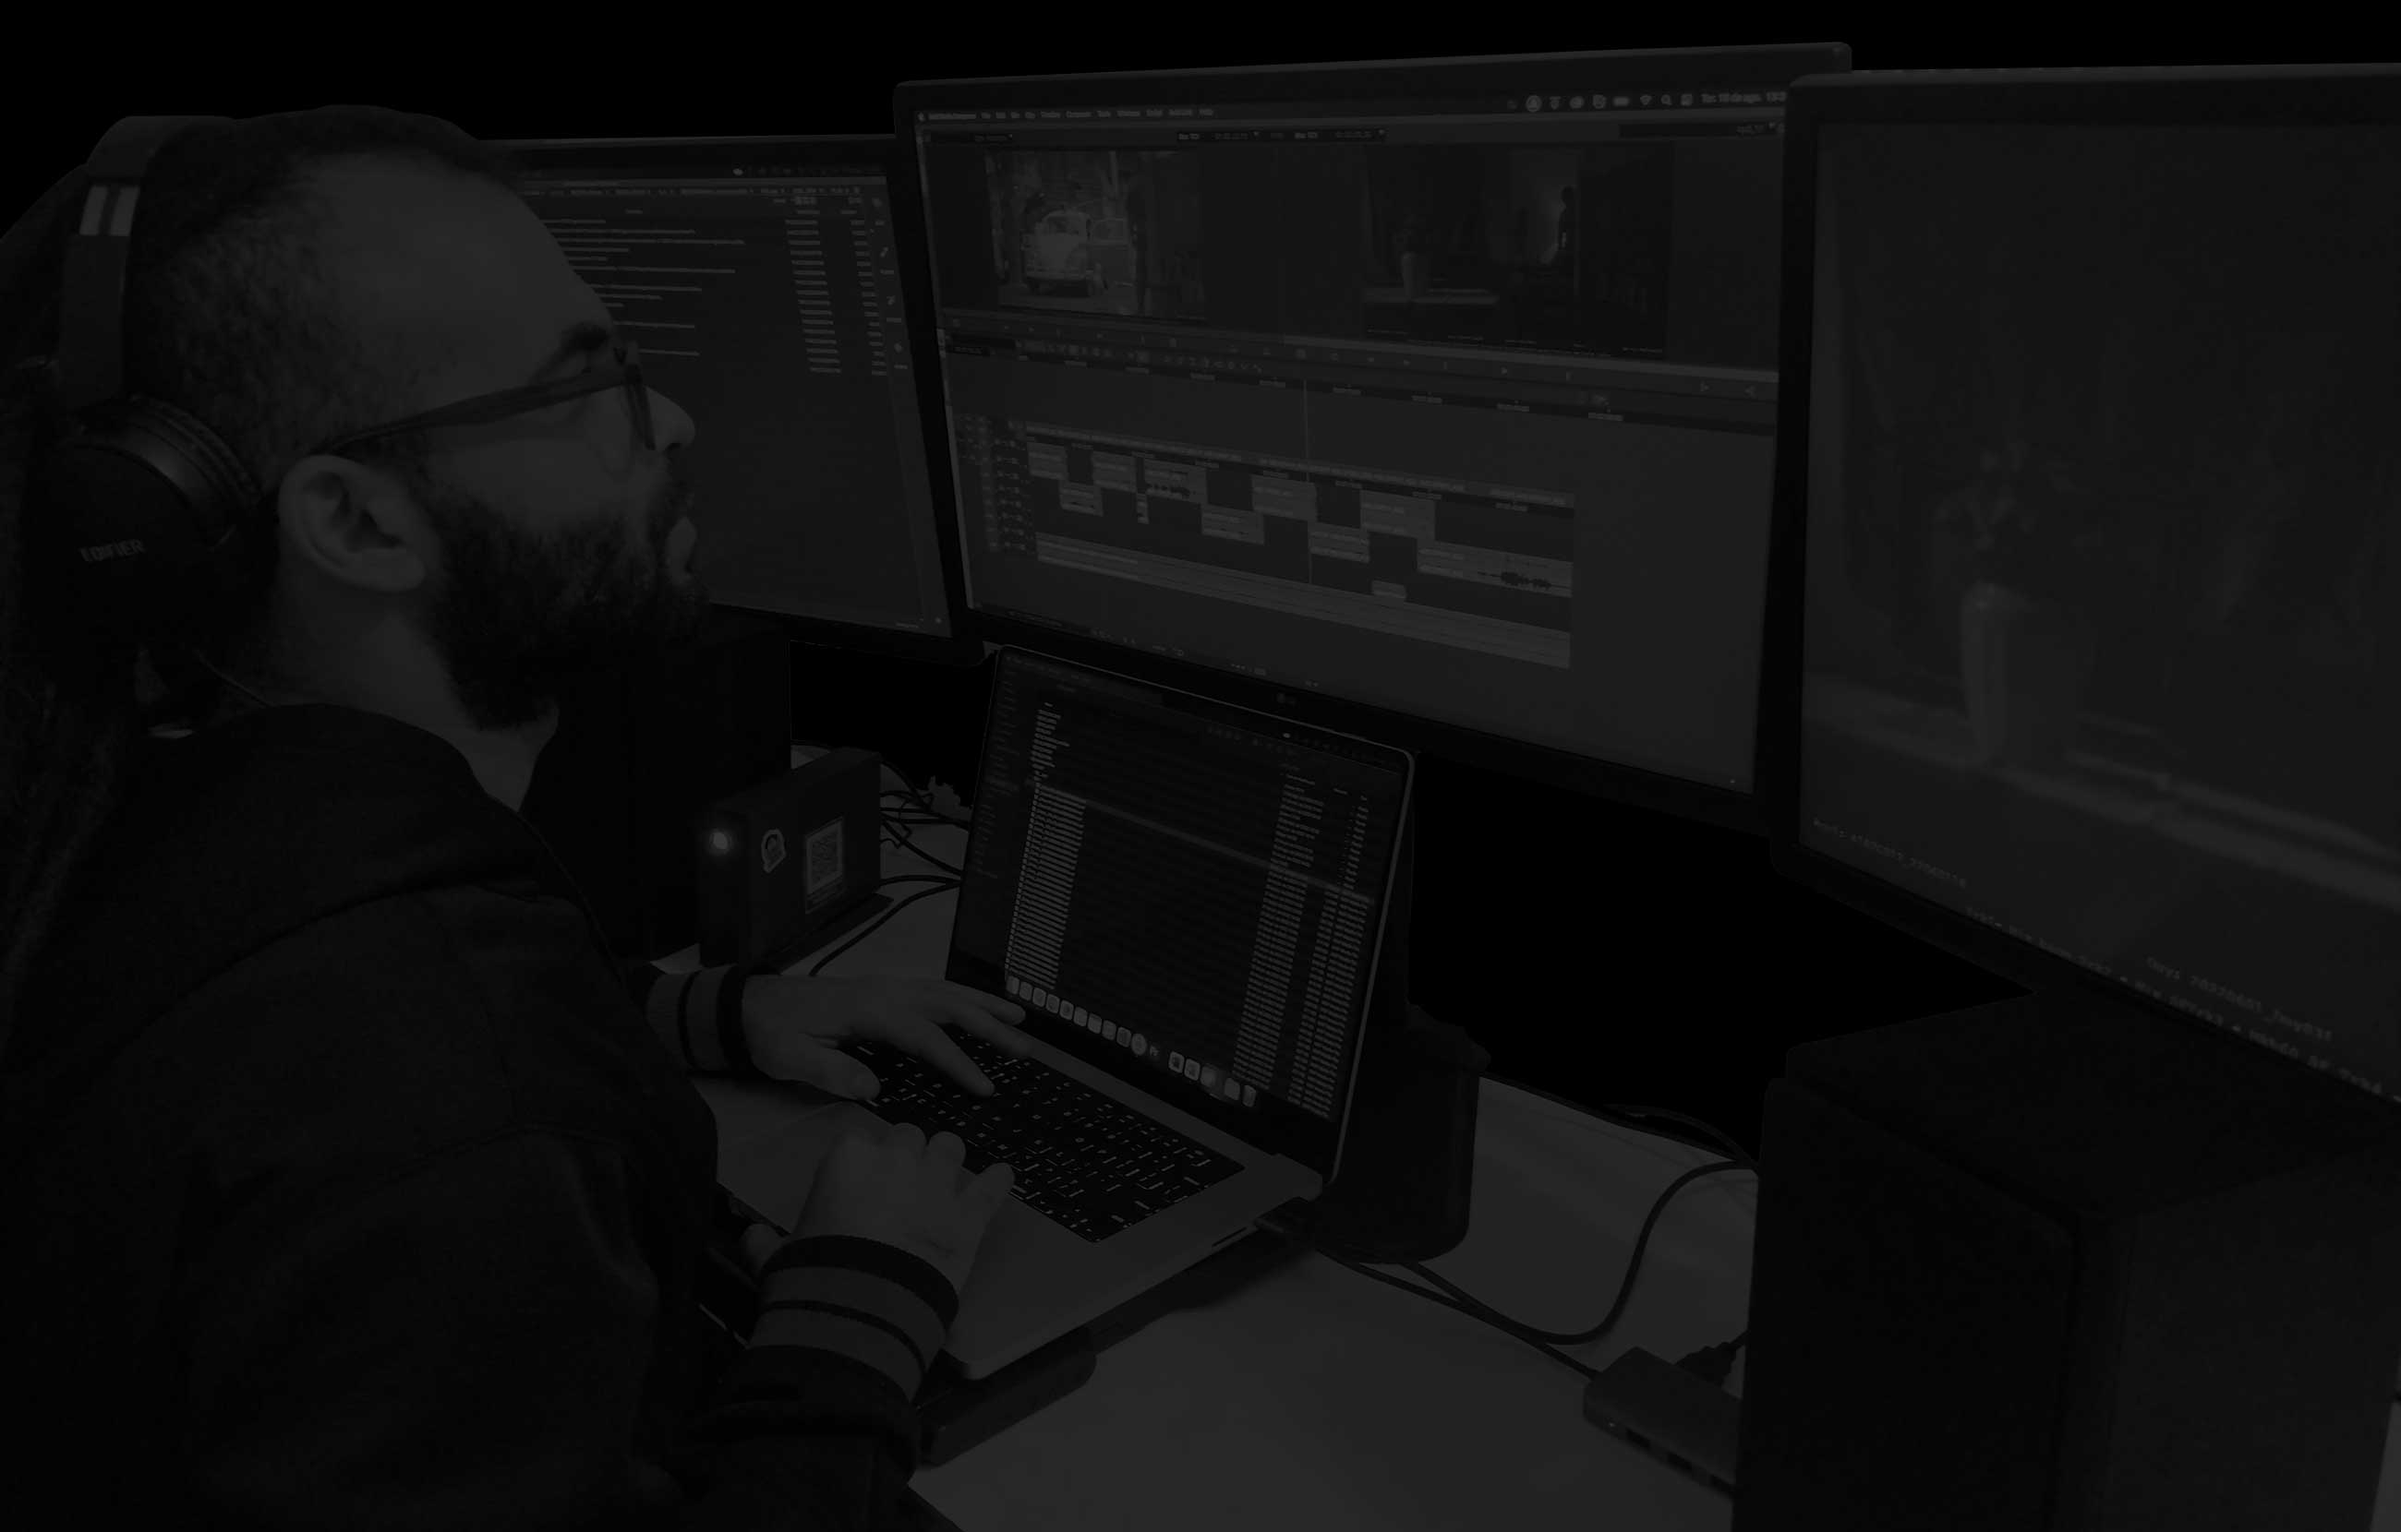
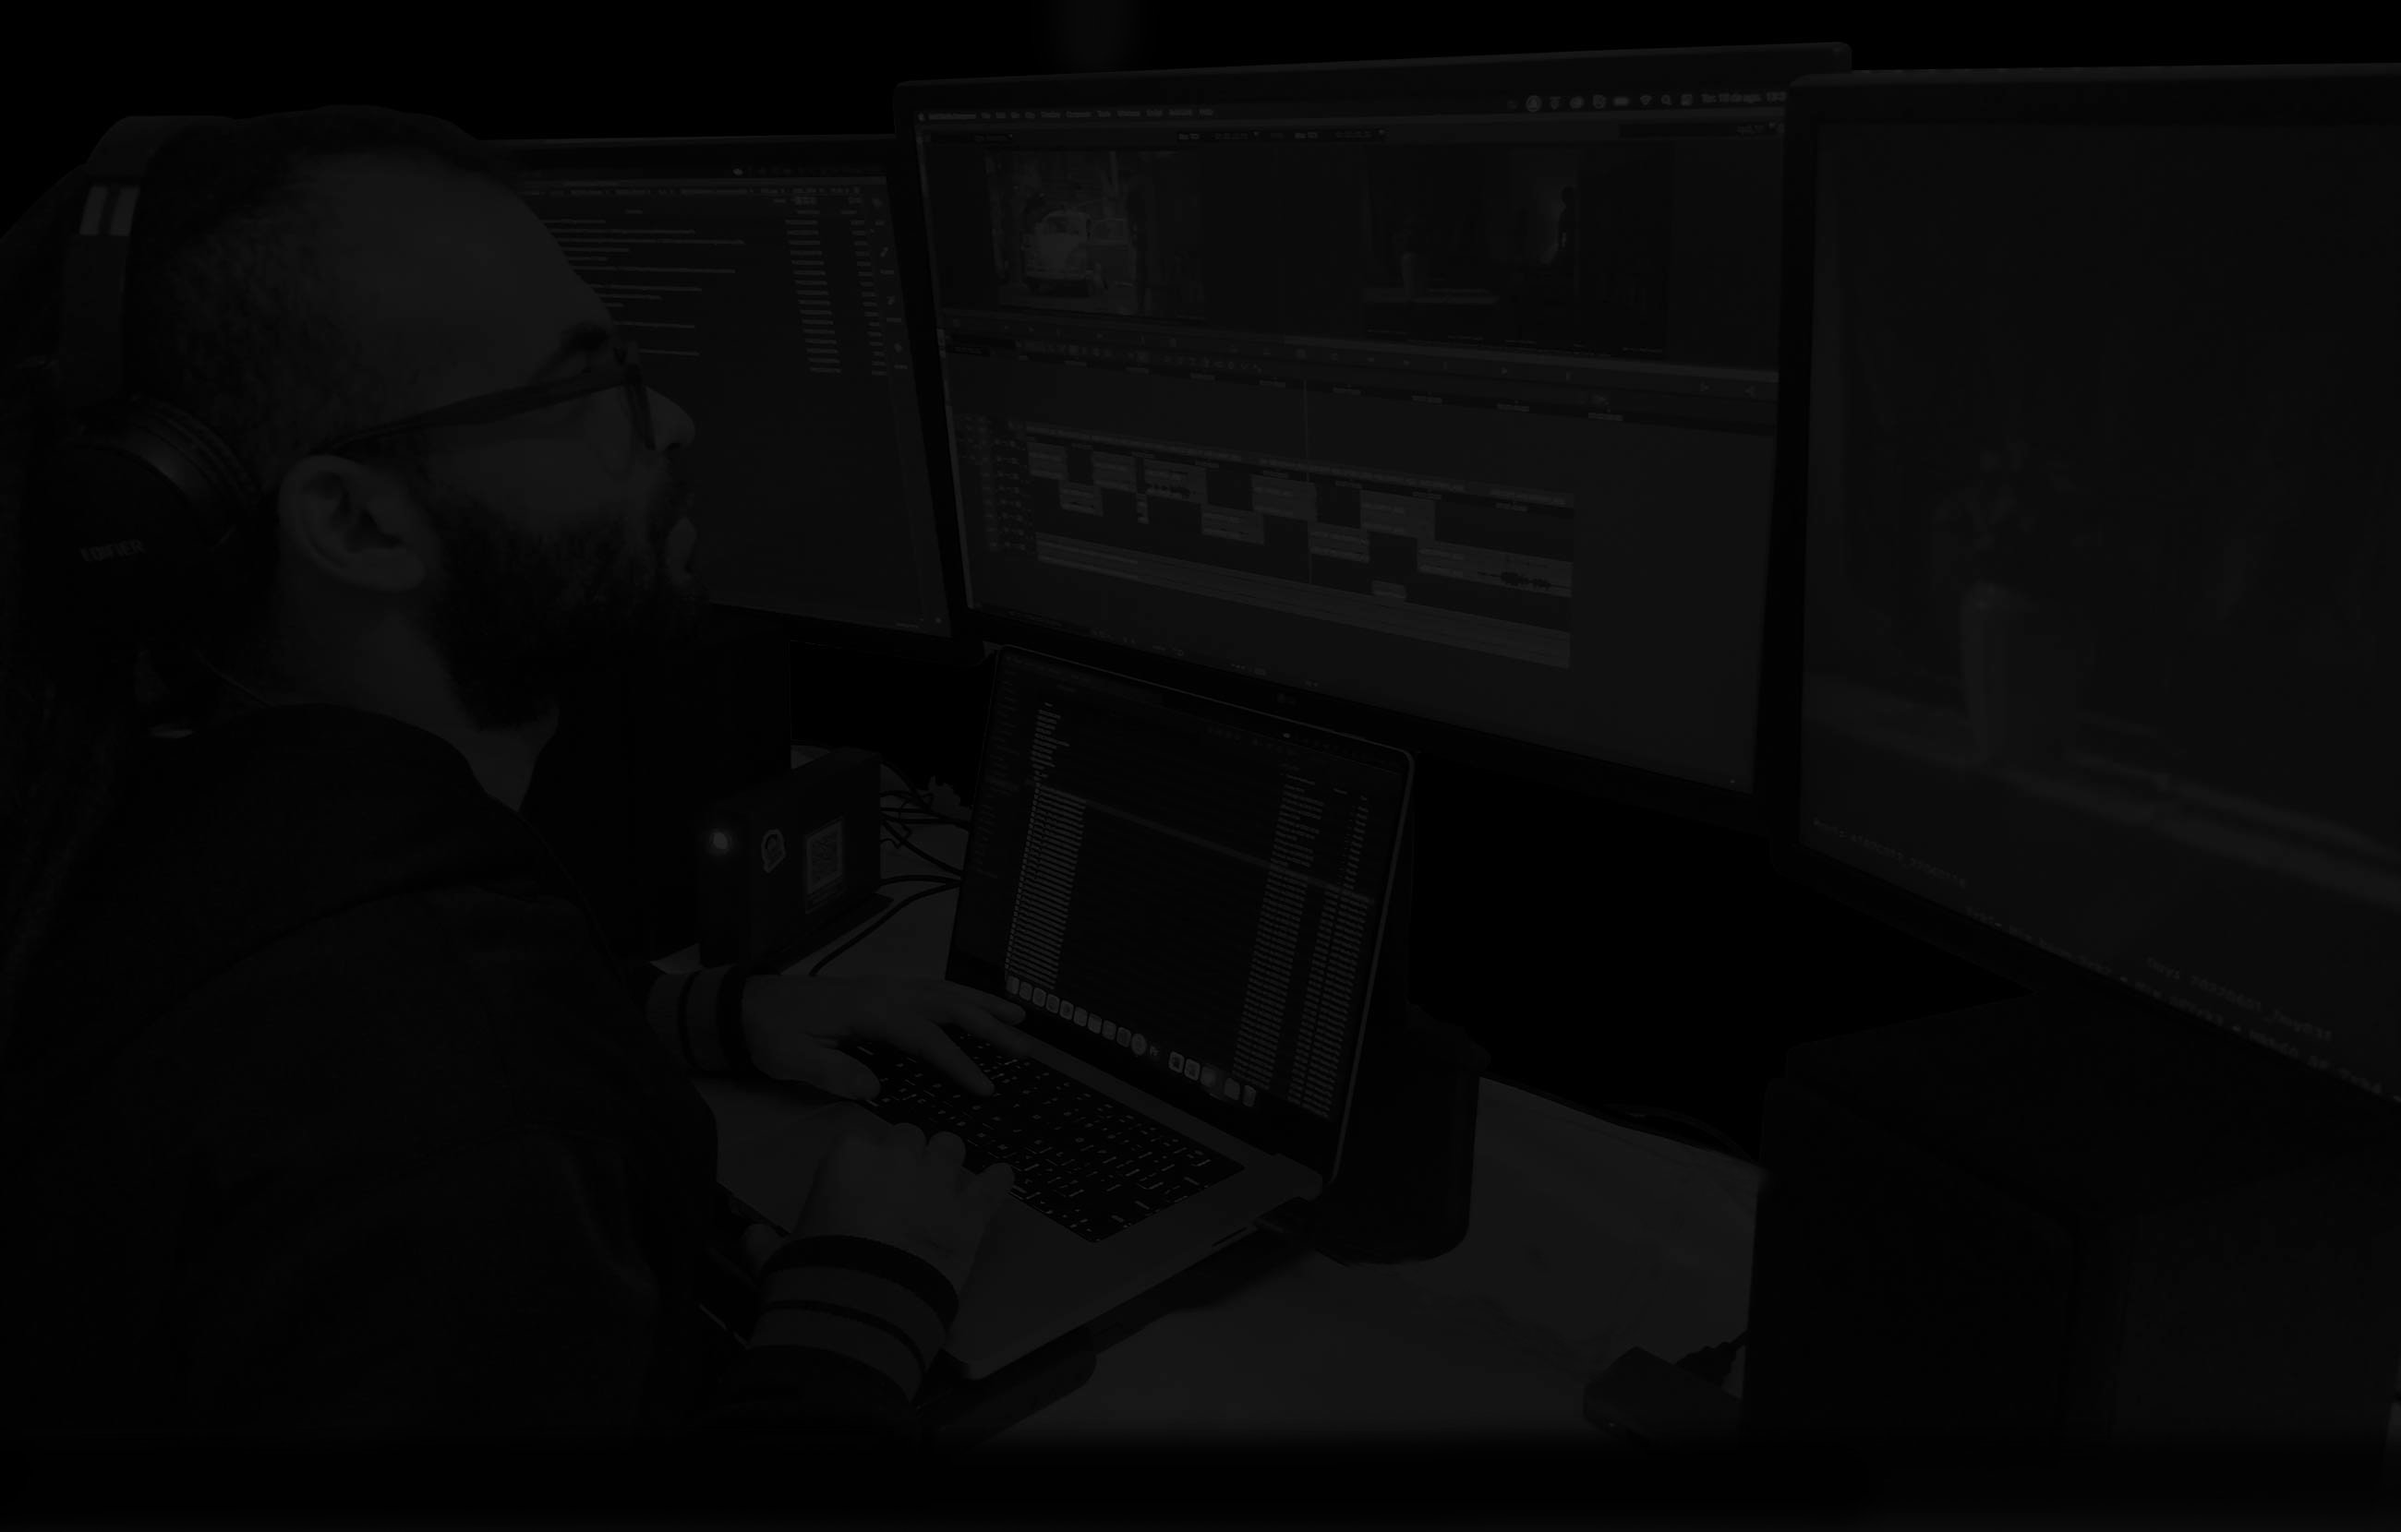
changing main image

Changed region(s): [[0.3738, 0.9217, 0.7477, 1.0], [0.9658, 0.9217, 1.0, 1.0]]

diff --git a/index.html b/index.html
@@ -29,7 +29,7 @@
 
   <section class="hero">
     <h1>Alexandre Mapa</h1>
-    <h2>montagem audiovisual, direção de corte e operação de câmera</h2>
+    <h2>montagem audiovisual</h2>
   </section>
 
   <div class="desktop">
@@ -37,7 +37,7 @@
       <img class="sobre__imagem" src="imagens/sobre_foto.jpg" />
       <p>
         <strong>Alexandre Mapa</strong> é realizador audiovisual,
-        com experiência nas áreas de montagem audiovisual, direção,
+        com experiência nas áreas de montagem, direção,
         direção de corte e operação de câmera. Formado no curso de
         Rádio, TV e Internet da Universidade Federal de Pernambuco,
         atua no mercado desde 2012. Possui trabalhos realizados em
@@ -67,6 +67,12 @@
           </a>
         </div>
         <div class="trabalho_thumb__img">
+          <a href="/ficcao.html">
+            <span>Ficção</span>
+            <img src="imagens/thumb5.png" />
+          </a>
+        </div>
+        <div class="trabalho_thumb__img">
           <a href="/festivaiscinema.html">
             <span>Festivais de Cinema</span>
             <img src="imagens/thumb2.png" />
@@ -82,12 +88,6 @@
           <a href="/eventos.html">
             <span>Eventos</span>
             <img src="imagens/thumb4.png" />
-          </a>
-        </div>
-        <div class="trabalho_thumb__img">
-          <a href="/ficcao.html">
-            <span>Ficção</span>
-            <img src="imagens/thumb5.png" />
           </a>
         </div>
         <div class="trabalho_thumb__img">

diff --git a/css/main.css b/css/main.css
@@ -44,7 +44,7 @@
 }
 
 body {
-    background-color: rgb(12, 12, 12);
+    background-color: rgb(0, 0, 0);
     color: white;
     font-family: "Signika", sans-serif;
     line-height: 1.5em;
@@ -99,8 +99,8 @@ img {
 }
 
 .hero {
-    background: url(../imagens/SemTítulo-1.png);
-    height: 400px;
+    background: url(../imagens/SemTítulo-2.jpg);
+    height: 340px;
     max-width: 100%;
     background-position: center;
     background-size: 100%;
@@ -335,11 +335,12 @@ footer {
     }
 
     .hero {
-        height: 100vh;
+        height: calc(100vh - 60px);
         max-width: 100%;
-        background-position: right;
-        background-size: contain;
+        background-position: inherit;
+        background-size: cover;
         background-repeat: no-repeat;
+        margin-top: 60px;
     }
     .hero h1 {
         font-size: 4em;
